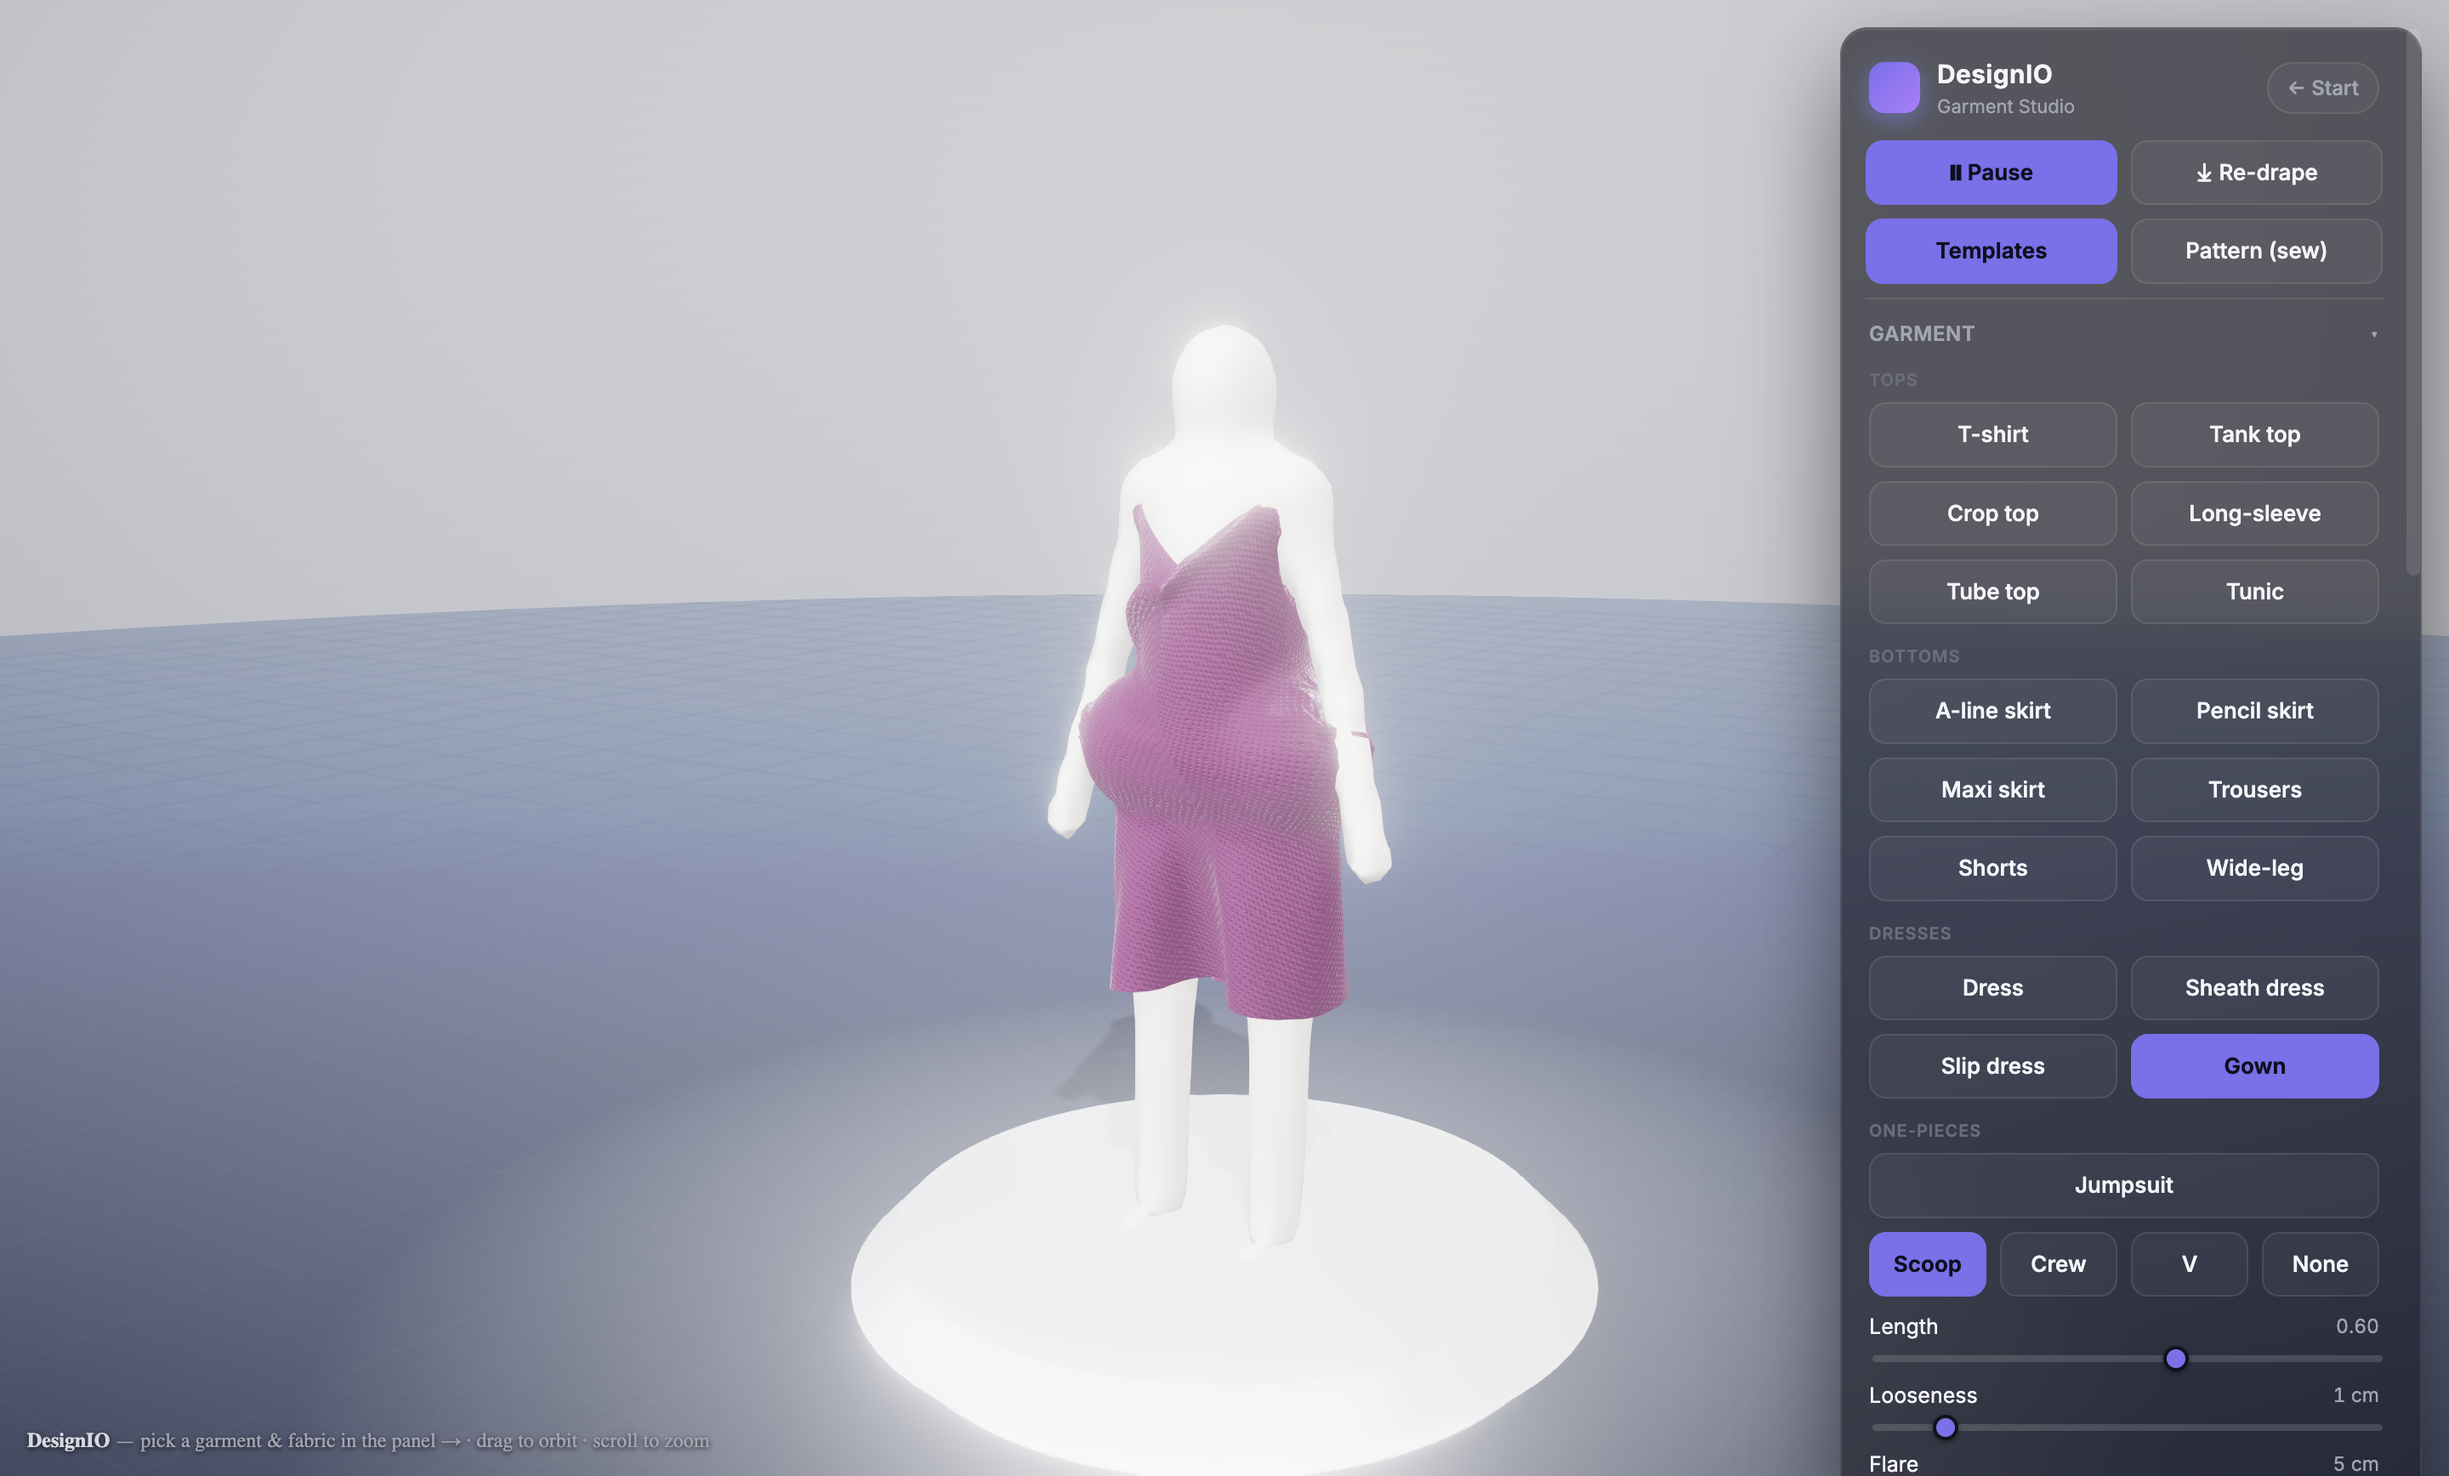
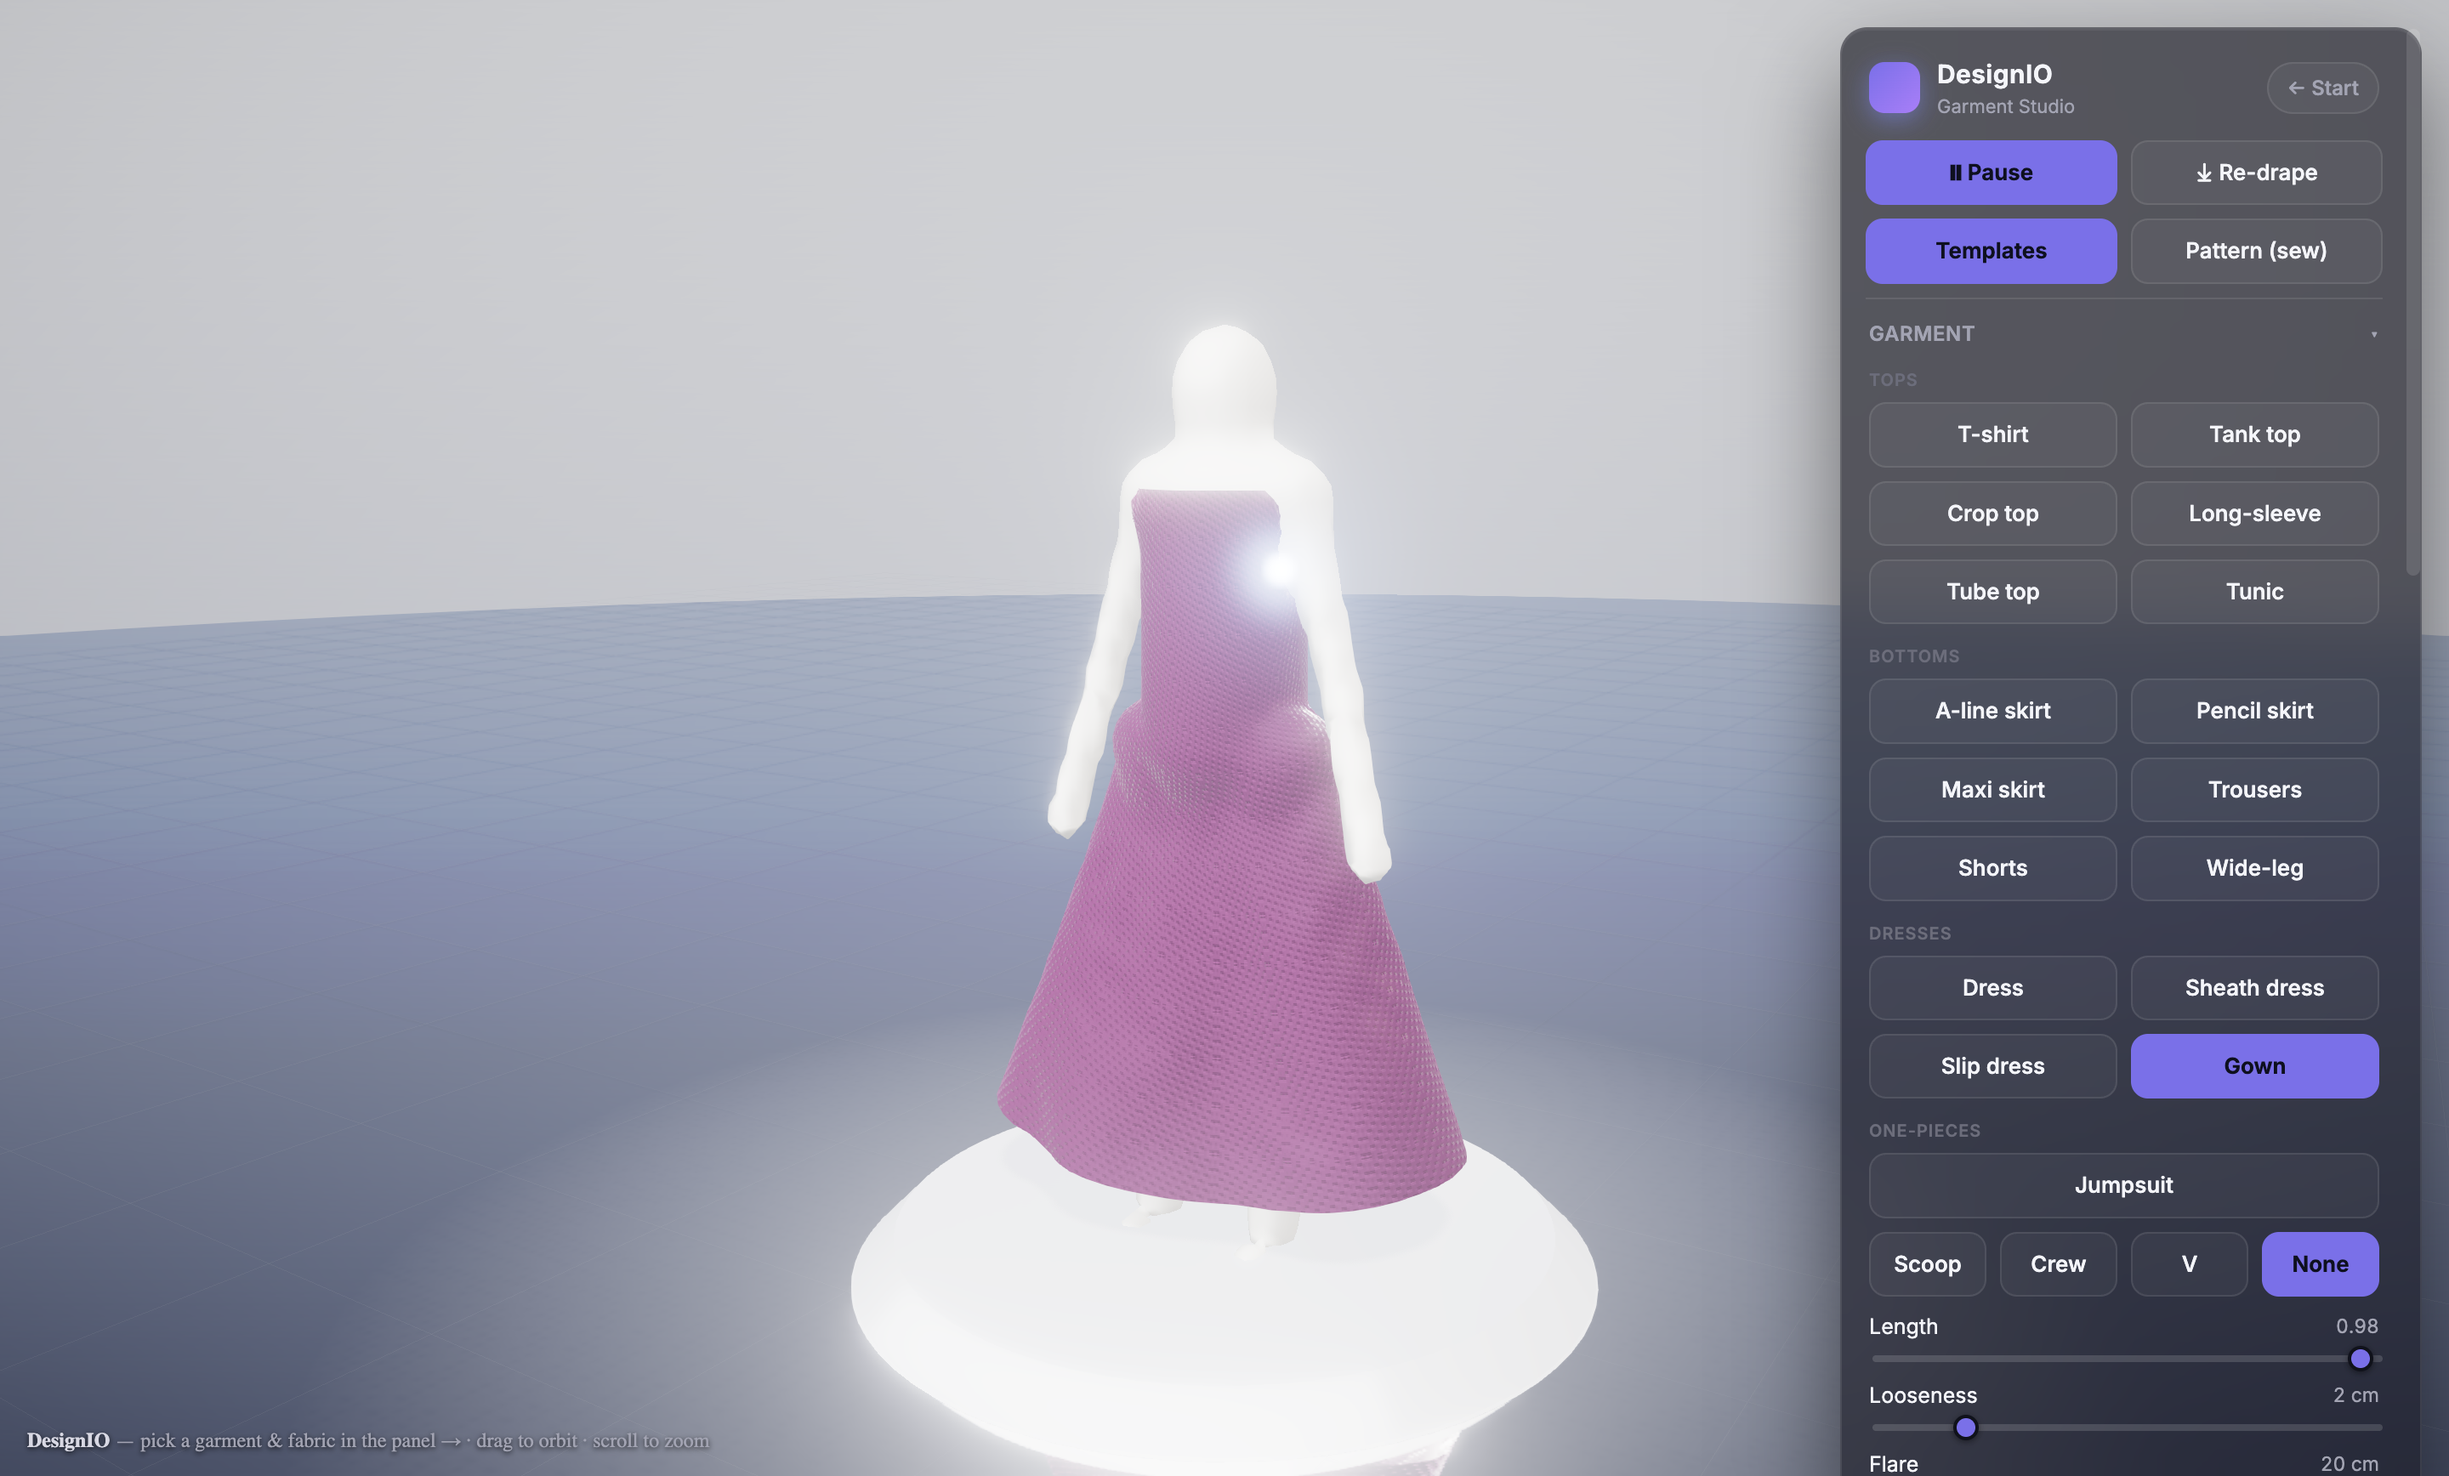
Slim the mannequin's rear (single source) + npm run capture for README
Part A — slim rear, universally:
The pelvis radius was defined twice — the mesh (partSpec[4] = hipR*0.66) and the
collider capsule (baseDefs[4] = a fatter 0.14). Cloth collided against the fat
invisible capsule, so garments bulged/clipped over the rear. Now one param —
SEAT (hipR*0.52) via seatRadius() — feeds BOTH the metaball mesh and the hip
collider (bones[4]). The rear reads slim + near-flat and dresses/skirts hang
straight over it. Hip width is preserved (it comes from the segment span, not the
radius). Works in every view + both body modes (shared measurements). Added a
headless test asserting colliders[4].radius === measurements.hipR*SEAT (the
single-source guard) and that it holds after a resize.

Part B — repeatable README captures:
- `npm run capture` (scripts/capture-readme.cjs) re-renders every README image to
  its existing path via the existing capture.cjs, at fixed per-shot framing.
- `?still=1` freezes the start-page turntable so the hero shots are deterministic.
- Deep-linking a garment now applies its defaults (getGarment().defaults), so
  captures show each garment as designed (e.g. the gown is strapless + floor-length).
- Regenerated all 9 README images on the slimmed body; fixed the fabric caption;
  documented `npm run capture`.

typecheck ✓ · test ✓ (45) · build ✓.

diff --git a/src/renderer/avatar/Mannequin.ts b/src/renderer/avatar/Mannequin.ts
@@ -222,12 +222,18 @@ export function buildMannequin(bodyInit: Partial<BodyParams> = {}): Mannequin {
   // Anatomy radii per collider index (a = start, b = end of each segment). The
   // narrow torso-bottom (waist) + wider hips blend into a natural waist.
   const P = (): Proportions => PROPORTIONS[body.bodyType]
+  // Pelvis/seat radius — ONE source of truth, consumed by BOTH the metaball mesh
+  // (partSpec below) and the hip collider (applyBody). Keeps the rear slim + near-flat
+  // and garments hanging straight over it. Hip *width* comes from the segment span, not
+  // this radius, so slimming it flattens depth (the rear) far more than width.
+  const SEAT = 0.52
+  const seatRadius = (): number => measurements.hipR * SEAT
   const partSpec: { rA: () => number; rB: () => number; cap?: BodyPart['cap'] }[] = [
     { rA: () => P().headR * body.build, rB: () => P().headR * body.build, cap: 'head' },
     { rA: () => P().neckR * body.build, rB: () => (P().neckR + 0.008) * body.build }, // neck
     { rA: () => measurements.waistR, rB: () => measurements.chestR }, // torso (waist→chest)
     { rA: () => 0.07 * body.build, rB: () => 0.07 * body.build }, // shoulders
-    { rA: () => measurements.hipR * 0.66, rB: () => measurements.hipR * 0.66 }, // hips (slimmer seat)
+    { rA: () => seatRadius(), rB: () => seatRadius() }, // hips/seat (single-source; slim rear)
     { rA: () => P().upperArmR * body.build, rB: () => (P().upperArmR - 0.008) * body.build }, // upper arm
     { rA: () => (P().upperArmR - 0.008) * body.build, rB: () => P().foreArmR * body.build, cap: 'hand' }, // forearm
     { rA: () => measurements.thighR, rB: () => measurements.thighR * 0.68 }, // thigh
@@ -283,6 +289,9 @@ export function buildMannequin(bodyInit: Partial<BodyParams> = {}): Mannequin {
       bone.radius = bone.baseRadius * b
       bone.collider.radius = bone.radius
     }
+    // Pelvis collider = the mesh seat radius (single source), so cloth collides against
+    // the *visible* slim rear, not a fat invisible capsule. bones[4] is the hip segment.
+    bones[4].radius = bones[4].collider.radius = seatRadius()
   }
 
   const a = new THREE.Vector3()

diff --git a/src/renderer/main.ts b/src/renderer/main.ts
@@ -7,7 +7,7 @@ import { Loop } from './core/Loop'
 import { buildMannequin, type AnimationMode } from './avatar/Mannequin'
 import { GarmentController } from './garment/GarmentController'
 import type { GarmentType } from './garment/templates'
-import { GARMENT_IDS } from './garments/registry'
+import { GARMENT_IDS, getGarment } from './garments/registry'
 import { PatternController } from './pattern/PatternController'
 import { DEFAULT_PATTERN } from './pattern/pattern'
 import { createFabricMaterial, applyFabric } from './cloth/FabricMaterial'
@@ -298,7 +298,10 @@ const skipStart =
 if (skipStart) {
   const cfg = defaultConfig()
   const g = entryParams.get('garment') as GarmentType | null
-  if (g && GARMENT_IDS.includes(g)) cfg.garmentType = g
+  if (g && GARMENT_IDS.includes(g)) {
+    cfg.garmentType = g
+    Object.assign(cfg, getGarment(g).defaults) // show the garment as designed (e.g. a gown = strapless/long)
+  }
   const fb = entryParams.get('fabric')
   if (fb) {
     cfg.fabricId = fb

diff --git a/tests/animation.test.ts b/tests/animation.test.ts
@@ -27,3 +27,20 @@ describe('poseable mannequin', () => {
     expect(shin.b.distanceTo(rest)).toBeLessThan(1e-9)
   })
 })
+
+describe('slim seat (single source of truth)', () => {
+  const SEAT = 0.52 // must match Mannequin.ts; both mesh + collider use hipR * SEAT
+  it('the hip collider radius equals the mesh seat radius (no fat invisible capsule)', () => {
+    const m = buildMannequin()
+    // colliders[4] is the pelvis/hip segment.
+    expect(m.colliders[4].radius).toBeCloseTo(m.measurements.hipR * SEAT, 6)
+    // …and far slimmer than the old fat 0.14 capsule that pushed garments over the rear.
+    expect(m.colliders[4].radius).toBeLessThan(0.12)
+  })
+
+  it('the slim seat holds after a resize (still one source)', () => {
+    const m = buildMannequin()
+    m.resize({ bodyType: 'male', build: 1.1, hips: 1.2 })
+    expect(m.colliders[4].radius).toBeCloseTo(m.measurements.hipR * SEAT, 6)
+  })
+})

diff --git a/src/renderer/start/PreviewStudio.ts b/src/renderer/start/PreviewStudio.ts
@@ -73,7 +73,9 @@ export class PreviewStudio {
     this.controls.minDistance = 1.6
     this.controls.maxDistance = 5
     this.controls.target.set(0, 0.92, 0)
-    this.controls.autoRotate = !this.reducedMotion
+    // `?still=1` freezes the turntable at the initial ¾ angle for repeatable captures.
+    const still = new URLSearchParams(location.search).get('still') === '1'
+    this.controls.autoRotate = !this.reducedMotion && !still
     this.controls.autoRotateSpeed = 2.0 // ~1 rev / 26 s
     this.controls.update()
 

diff --git a/README.md b/README.md
@@ -93,10 +93,11 @@ Every fabric carries **physical** properties (weight, stretch, bendiness, fricti
 - **Knits** — jersey, rib, French terry, fleece, cable knit
 - **Specialty** — leather, suede, velvet, tulle, spandex
 
-![Grouped, textured fabric swatches in the studio](docs/fabrics-start.png)
+![A velvet dress — each fabric drives both look and drape](docs/fabrics-start.png)
 
-Live-inspect any fabric (GSM, stretch, drape, grip, roughness, sheen, weave density/depth, anisotropy,
-sheerness), and macro-zoom to see the woven micro-surface:
+*Every fabric drives both look and drape — here, velvet.* Live-inspect any fabric (GSM, stretch, drape,
+grip, roughness, sheen, weave density/depth, anisotropy, sheerness), and macro-zoom to see the woven
+micro-surface:
 
 ![Macro close-up of satin — procedural weave normal map + sheen + anisotropic highlights](docs/closeup.png)
 
@@ -131,6 +132,7 @@ npm run build      # bundle main / preload / renderer into ./out
 npm run preview    # build, then run the packaged app
 npm test           # headless solver / geometry / catalog tests (vitest)
 npm run typecheck  # strict TypeScript, no emit
+npm run capture    # re-render all README screenshots from the current build
 ```
 
 ---
